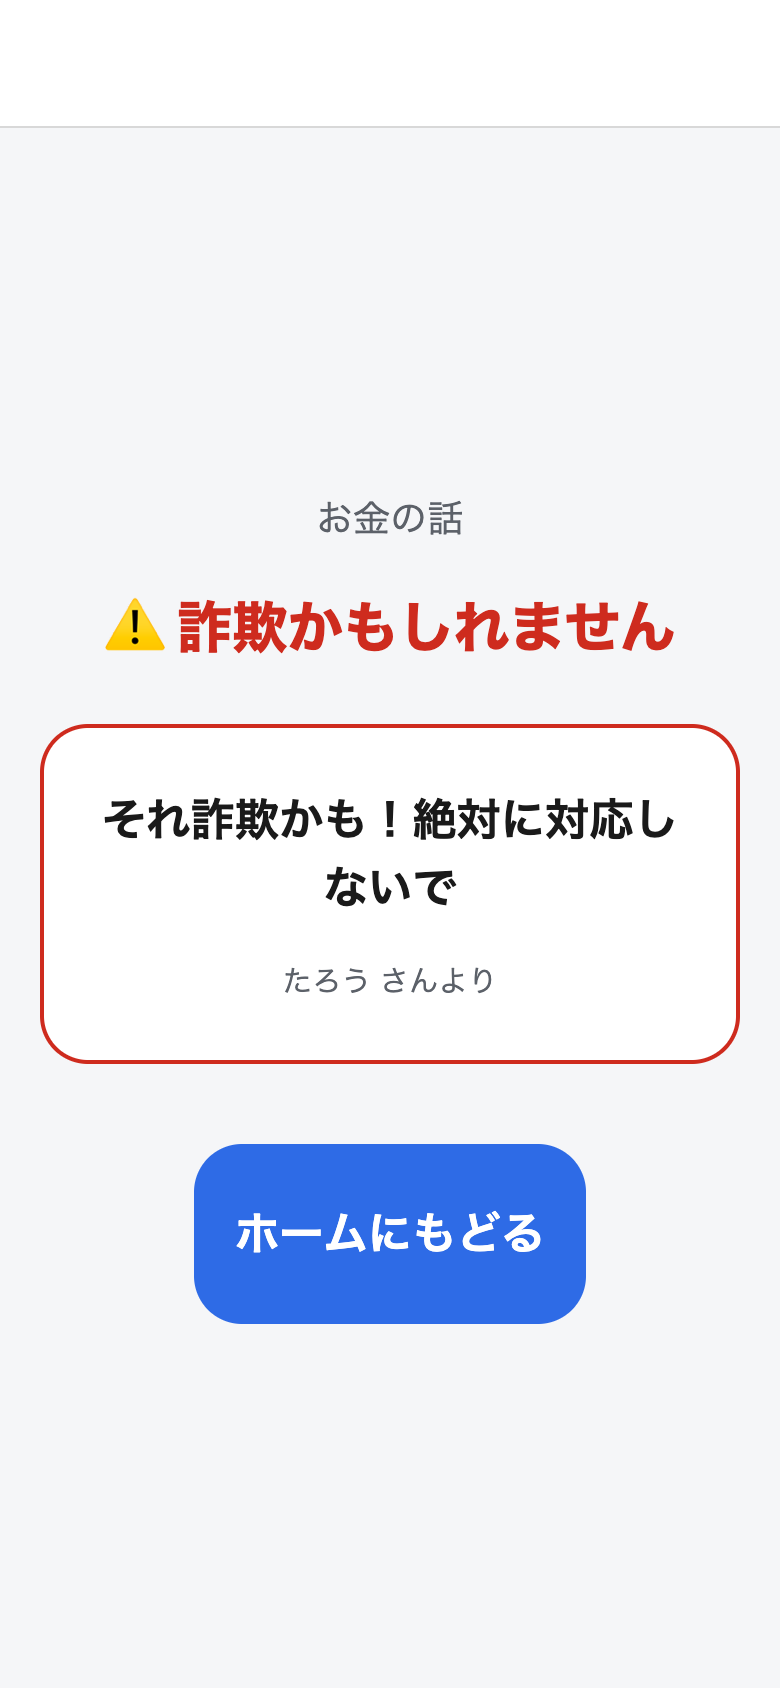
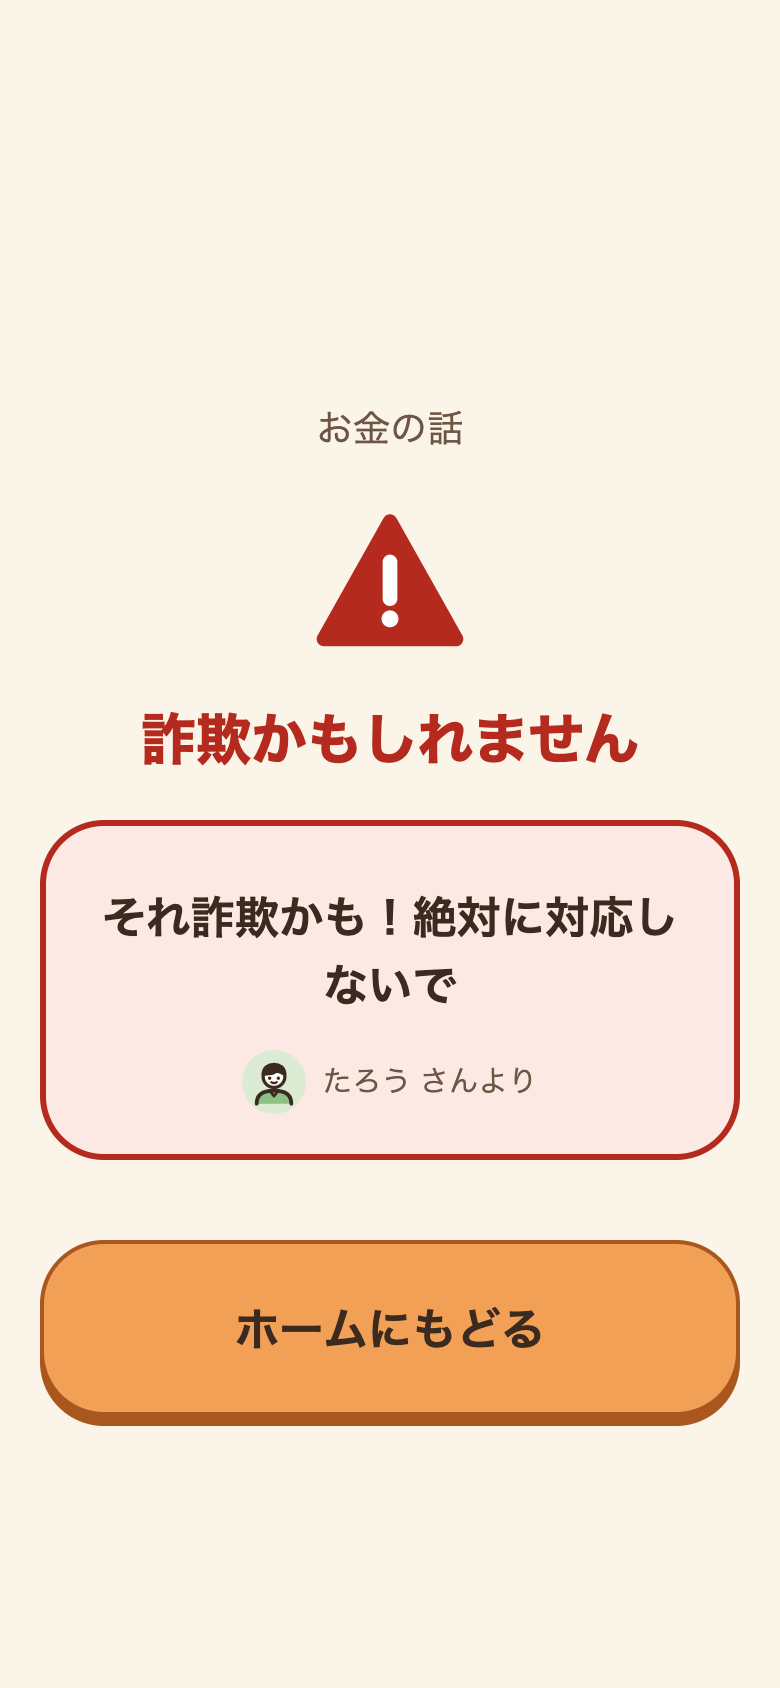
文書: README の画面写真を新しい見た目で撮り直す
親のホーム（「答えが届きました」の入口）と答えの画面を、クリーム地と橙の見た目で撮り直した。
寸法は 780×1688 のまま。ホーム画面の alt 文のボタンの色を「橙」に直した。

Changed region(s): [[0.0308, 0.2464, 0.9538, 0.8626]]

diff --git a/README.md b/README.md
@@ -2,7 +2,7 @@
 
 高齢の親が、あやしい電話・訪問・SMS に出くわしたとき、大きなボタン1つで子にすぐ相談できる詐欺対策アプリ。
 
-<img src="docs/screenshots/top.png" width="280" alt="親のホーム画面。上に「答えが届きました」の入口、その下に青い丸ボタン「これ、大丈夫？」">
+<img src="docs/screenshots/top.png" width="280" alt="親のホーム画面。上に「答えが届きました」の入口、その下に橙の丸ボタン「これ、大丈夫？」">
 <img src="docs/screenshots/answer.png" width="280" alt="親の答えの画面。赤い見出し「詐欺かもしれません」と、子からの返信「それ詐欺かも！絶対に対応しないで」">
 
 - デモ: https://kerokero-1245.github.io/kore-daijobu/ （Web 版。端末内の偽バックエンドで動くので、2 台の共有とプッシュ通知は動かない。親と子の往復は 2 タブで試せる）
